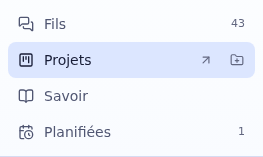
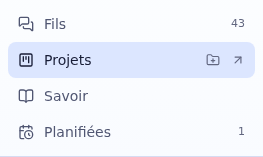
Rendre au « ↗ » le bord de la ligne, et passer le raccourci devant
Le « ↗ » remplace le compteur : tant qu'il restait dans le bouton de la ligne,
le raccourci le poussait de sa largeur, et la pastille de *Projets* ne tombait
plus dans la même colonne que les compteurs de *Fils* et *Planifiées*. Le
créneau de droite sort donc du bouton et reprend le bord ; le raccourci s'insère
avant lui.

Le prix est assumé : une vingtaine de pixels au bord droit n'ouvrent plus la
page. L'alignement des quatre lignes les vaut.

Changed region(s): [[0.7605, 0.3312, 0.943, 0.4331]]

diff --git a/apps/web/src/components/sidebar/SidebarPlaces.tsx b/apps/web/src/components/sidebar/SidebarPlaces.tsx
@@ -86,13 +86,13 @@ export function SidebarPlaces({ places, current, onNavigate }: {
           return (
             <li key={place.id}>
               {/*
-                La ligne est une `div` qui contient le lieu et, le cas échéant, son
-                raccourci — et non un `<button>` enveloppant, comme c'était le cas tant
+                La ligne est une `div` qui tient le lieu, son raccourci et le créneau de
+                droite — et non un `<button>` enveloppant, comme c'était le cas tant
                 qu'elle n'avait qu'une cible : un bouton dans un bouton n'est pas du HTML
                 valide. Même motif que les lignes de la zone basse.
               */}
               <div className={cx(
-                'group/place flex h-11 items-center rounded-md transition-colors md:h-9 pointer-coarse:h-11',
+                'group/place flex h-11 items-center gap-1 rounded-md pr-2.5 transition-colors md:h-9 pointer-coarse:h-11',
                 active ? 'bg-accent-wash font-medium text-ink' : 'text-ink-soft hover:bg-surface-high hover:text-ink',
               )}>
                 <button
@@ -105,27 +105,10 @@ export function SidebarPlaces({ places, current, onNavigate }: {
                     if (place.page) navigate(place.page)
                     onNavigate()
                   }}
-                  className="flex h-full min-w-0 flex-1 items-center gap-2.5 rounded-md px-2.5 text-left text-sm"
+                  className="flex h-full min-w-0 flex-1 items-center gap-2.5 rounded-md pl-2.5 text-left text-sm"
                 >
                   <Icon size={16} className="shrink-0" />
                   <span className="min-w-0 flex-1 truncate">{t(place.label)}</span>
-                  {/* Au survol, le « ↗ » prend la place du compteur : il dit que la ligne
-                      mène à une page, et non qu'elle n'a fait que régler la colonne. Il
-                      reste un ornement et non une seconde cible — la ligne ouvre déjà
-                      cette page. Le raccourci de création qui le suit, lui, est un vrai
-                      bouton : il ne mène pas au même endroit, et c'est précisément ce
-                      qui l'autorise à occuper ce bord. */}
-                  <span aria-hidden className={cx(
-                    'shrink-0 text-meta tabular-nums text-ink-faint',
-                    place.page && 'group-hover/place:hidden',
-                  )}>
-                    {place.count !== null
-                      ? place.count
-                      : place.dot ? <span className="block size-1.5 rounded-full bg-accent" /> : null}
-                  </span>
-                  {place.page ? (
-                    <ArrowUpRight size={14} className="hidden shrink-0 text-ink-faint group-hover/place:block" />
-                  ) : null}
                 </button>
 
                 {place.action && ActionIcon ? (
@@ -143,11 +126,34 @@ export function SidebarPlaces({ places, current, onNavigate }: {
                         n'y a pas de survol pour l'annoncer, et la zone basse porte déjà
                         sa ligne « Nouveau projet… », permanente et nommée.
                       */
-                      className="mr-1 inline-flex size-7 shrink-0 items-center justify-center rounded-md text-ink-faint opacity-0 transition hover:bg-surface-high hover:text-ink focus-visible:opacity-100 group-hover/place:opacity-100 group-focus-within/place:opacity-100 pointer-coarse:hidden"
+                      className="inline-flex size-7 shrink-0 items-center justify-center rounded-md text-ink-faint opacity-0 transition hover:bg-surface-high hover:text-ink focus-visible:opacity-100 group-hover/place:opacity-100 group-focus-within/place:opacity-100 pointer-coarse:hidden"
                     >
                       <ActionIcon size={14} />
                     </NavLink>
                   </Tooltip>
+                ) : null}
+
+                {/*
+                  Le créneau de droite : le compteur au repos, le « ↗ » au survol. Il dit
+                  que la ligne mène à une page, et non qu'elle n'a fait que régler la
+                  colonne. Un ornement et non une seconde cible — la ligne ouvre déjà
+                  cette page, et deux cibles pour une destination ne feraient qu'un piège.
+
+                  Il est **au bord**, après le raccourci, et donc hors du bouton : c'est ce
+                  qui garde la pastille de ce lieu dans la même colonne que les compteurs
+                  des lieux sans raccourci. Le prix est de vingt pixels au bord droit qui
+                  n'ouvrent plus la page ; l'alignement des quatre lignes les vaut.
+                */}
+                <span aria-hidden className={cx(
+                  'shrink-0 text-meta tabular-nums text-ink-faint',
+                  place.page && 'group-hover/place:hidden',
+                )}>
+                  {place.count !== null
+                    ? place.count
+                    : place.dot ? <span className="block size-1.5 rounded-full bg-accent" /> : null}
+                </span>
+                {place.page ? (
+                  <ArrowUpRight size={14} className="hidden shrink-0 text-ink-faint group-hover/place:block" />
                 ) : null}
               </div>
             </li>
